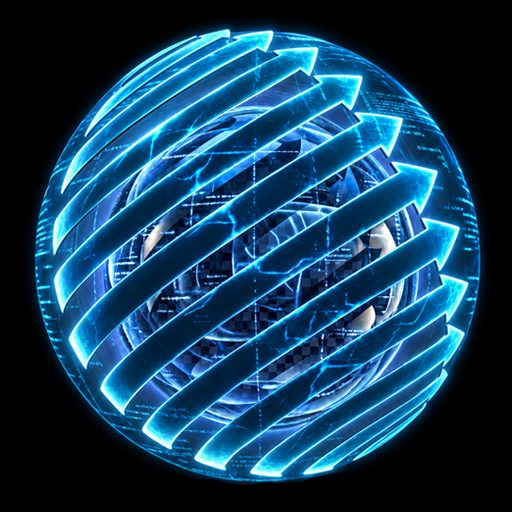
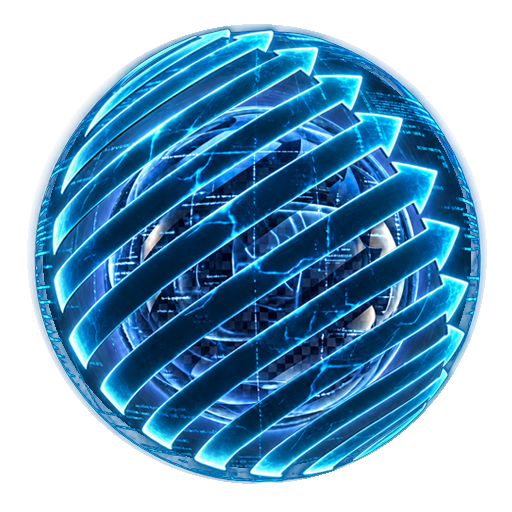
fix(ui): símbolo transparente, gráficos neutros e tour sem Assinatura
- Favicon e ícones do app (192/512) com fundo transparente: a esfera é
  recortada pelo contorno e o brilho da borda vira transparência. O ícone
  maskable do Android usa uma cópia com fundo (icon-maskable-512.png),
  porque o sistema recorta o ícone e precisa de fundo cheio
- Gestão de Demandas: barras neutras em "Distribuição por status" e "SPs
  por setor" (as cores dos dois quadros se confundiam)
- Tour não passa mais pela tela de Assinatura (botão de cancelamento)

diff --git a/components/vitrine/demandas/GestaoDemandasDemo.tsx b/components/vitrine/demandas/GestaoDemandasDemo.tsx
@@ -58,14 +58,6 @@ const TOM_STATUS: Record<SpStatus, TomSelo> = {
   cancelada: 'neutro',
 };
 
-const COR_STATUS: Record<SpStatus, string> = {
-  aberta: '#64748b',
-  em_andamento: '#0ea5e9',
-  aguardando_resposta: '#f59e0b',
-  aguardando_validacao: '#8b5cf6',
-  concluida: '#10b981',
-  cancelada: '#94a3b8',
-};
 
 const TOM_PRAZO: Record<PrazoTom, TomSelo> = {
   verde: 'verde',
@@ -135,18 +127,18 @@ function VisaoGeral({ sps, hojeIso, onAbrir }: VisaoProps) {
         />
       </div>
 
+      {/* Barras neutras nos dois quadros: com cores, os status e os setores
+          pareciam a mesma legenda (pedido do diretor 2026-10-04). */}
       <div className="grid gap-4 lg:grid-cols-2">
         <Secao titulo="Distribuição por status">
-          <ListaBarras
-            linhas={porStatus.map((p) => ({ label: STATUS_LABEL[p.status], valor: p.total, cor: COR_STATUS[p.status] }))}
-          />
+          <ListaBarras neutro linhas={porStatus.map((p) => ({ label: STATUS_LABEL[p.status], valor: p.total }))} />
         </Secao>
         <Secao titulo="SPs por setor">
           <ListaBarras
+            neutro
             linhas={porSetor.map((p) => ({
               label: p.setor.nome,
               valor: p.total,
-              cor: p.setor.cor,
               detalhe: p.atrasadas ? `· ${p.atrasadas} em atraso` : undefined,
             }))}
           />

diff --git a/lib/onboarding/tour-steps.ts b/lib/onboarding/tour-steps.ts
@@ -266,15 +266,9 @@ export const TOUR_STEPS: TourStep[] = [
     body: 'Basta o nome da empresa para começar; CNPJ, telefone e e-mail são opcionais. Em "Mais detalhes" ficam razão social, endereço e uma apresentação curta. No fim, clique em "Salvar dados".',
   },
 
-  // ── Conta ─────────────────────────────────────────────────────────────
-  {
-    id: 'conta-assinatura',
-    route: '/account/billing',
-    secao: 'Sua conta',
-    target: '[data-tour="conta-assinatura"]',
-    title: 'Sua assinatura',
-    body: 'Plano, situação, forma de pagamento e próxima cobrança. Se você contratou mais de um acesso, os convites da sua equipe também ficam nesta tela.',
-  },
+  // A tela de Assinatura ficou de fora do tour de propósito (pedido do
+  // diretor 2026-10-04): o tour não deve passar pelo botão de cancelamento.
+  // O passo "conta" abaixo já diz que a Assinatura fica no menu da conta.
 
   // ── De volta ao chat ──────────────────────────────────────────────────
   {

diff --git a/components/vitrine/ui.tsx b/components/vitrine/ui.tsx
@@ -181,9 +181,12 @@ export function BarraProgresso({ pct, className = '' }: { pct: number; className
 export function ListaBarras({
   linhas,
   formatar = (n) => String(n),
+  neutro = false,
 }: {
   linhas: { label: string; valor: number; cor?: string; detalhe?: string }[];
   formatar?: (n: number) => string;
+  /** Barras cinza, sem cor: para quadros lado a lado não "conversarem" por cor. */
+  neutro?: boolean;
 }) {
   const max = linhas.reduce((a, l) => Math.max(a, l.valor), 0) || 1;
   return (
@@ -199,8 +202,8 @@ export function ListaBarras({
           </div>
           <div className="mt-1 h-2 w-full overflow-hidden rounded bg-muted">
             <div
-              className={`h-full rounded ${l.cor ? '' : 'bg-brand/70'}`}
-              style={{ width: `${(l.valor / max) * 100}%`, backgroundColor: l.cor }}
+              className={`h-full rounded ${neutro ? 'bg-muted-foreground/45' : l.cor ? '' : 'bg-brand/70'}`}
+              style={{ width: `${(l.valor / max) * 100}%`, backgroundColor: neutro ? undefined : l.cor }}
             />
           </div>
         </div>

diff --git a/components/billing/SubscriptionPanel.tsx b/components/billing/SubscriptionPanel.tsx
@@ -58,7 +58,7 @@ export function SubscriptionPanel({ subscription }: Props) {
   // No subscription = free user
   if (!subscription) {
     return (
-      <div data-tour="conta-assinatura" className="space-y-6">
+      <div className="space-y-6">
         <div>
           <h1 className="text-2xl font-semibold tracking-tight">Assinatura</h1>
           <p className="text-sm text-muted-foreground mt-1">
@@ -93,7 +93,7 @@ export function SubscriptionPanel({ subscription }: Props) {
 
 
   return (
-    <div data-tour="conta-assinatura" className="space-y-6">
+    <div className="space-y-6">
       <div className="flex items-start justify-between gap-3 flex-wrap">
         <div>
           <h1 className="text-2xl font-semibold tracking-tight">Assinatura</h1>

diff --git a/app/manifest.ts b/app/manifest.ts
@@ -20,7 +20,9 @@ export default function manifest(): MetadataRoute.Manifest {
     icons: [
       { src: '/icon-192.png', sizes: '192x192', type: 'image/png', purpose: 'any' },
       { src: '/icon-512.png', sizes: '512x512', type: 'image/png', purpose: 'any' },
-      { src: '/icon-512.png', sizes: '512x512', type: 'image/png', purpose: 'maskable' },
+      // Maskable precisa de fundo cheio (o Android recorta em círculo/quadrado);
+      // os ícones 'any' têm fundo transparente desde 2026-10-04.
+      { src: '/icon-maskable-512.png', sizes: '512x512', type: 'image/png', purpose: 'maskable' },
     ],
   };
 }

diff --git a/CLAUDE.md b/CLAUDE.md
@@ -111,7 +111,7 @@ Audiência: gestores de compras brasileiros (PT-BR primário, EN secundário).
 | 67 | `tour-primeiro-acesso` | **Tour guiado de primeiro acesso** (pedido do diretor, 2026-10-01: "tour para primeiro acesso, tour completo"). 15 passos cobrindo o produto inteiro a partir do `/chat` — a barra lateral **é** o mapa do produto, então o tour inteiro roda numa tela só, sem navegar entre rotas (navegar quebraria o estado do tour a cada transição). `lib/onboarding/tour-steps.ts` guarda o roteiro **e** `placeCard` (aritmética pura de posicionamento: direita → abaixo → acima → esquerda → centro, sempre presa à janela). `components/onboarding/ProductTour.tsx` faz o recorte de foco **sem biblioteca** — um retângulo sobre o elemento real com `box-shadow: 0 0 0 9999px` escurecendo o resto. **Passo cujo alvo não existe cai no cartão centrado** em vez de travar: é o que faz o tour funcionar no celular (gaveta fechada) e com a sidebar recolhida (que, no desktop, o tour abre sozinho sem persistir a preferência). Âncoras via `data-tour` nos elementos reais (`Sidebar` — itens de nav montados do href —, `Composer` nas duas variantes hero/inline, `UserRow`) + o `aria-label` já existente do `AssistantLauncher`. Migration **0060**: `profiles.onboarding_tour_completed_at` — marcador no PERFIL, não em localStorage, porque "primeiro acesso" é da pessoa e não do navegador; `POST /api/account/onboarding-tour` marca ao **concluir E ao pular** (os dois são decisão do cliente). O estado vem do servidor em `app/chat/page.tsx` (virou async) para a tela não piscar o tour depois de já ter desenhado o chat. Replay em "Ver o tour da plataforma" no rodapé da sidebar (desktop e mobile). **Usuários existentes NÃO foram marcados como vistos** — os 17 perfis de produção veem o tour uma vez no próximo login, de propósito: boa parte das ferramentas é recente e ninguém foi apresentado a elas. +19 vitest (incluindo um que falha se um passo apontar para um seletor que não existe mais em nenhum componente — sem ele, um `data-tour` renomeado viraria cartão centrado silencioso). |
 | 68 | `vitrines-sob-demanda` | **Duas abas novas de produtos vendidos sob demanda**, a partir de dois sistemas de outra empresa que o diretor pediu para integrar ao PROGPT perdendo a marca original (2026-10-04): **Gestão de Obras** (`/gestao-obras`, origem: `centraldeobras-v2` — gestão de obras públicas) e **Gestão de Demandas** (`/gestao-demandas`, origem: `conectain` — Solicitações de Providência entre setores). Regra do produto: **as abas só carregam EXEMPLOS** — quem quiser o sistema de verdade pede ao comercial, que implanta sob demanda. **Decisão de abordagem (confirmada com o usuário): vitrine NATIVA, não embutir o app original.** Os dois sistemas de origem são React 19 + Tailwind v4 (um Vite SPA, outro TanStack Start), com Supabase próprio, login obrigatório e ~70 arquivos chamando `supabase.from()` inline — sem modo demo e, no caso do ConectaIN, sem nem dados de exemplo no banco. Embutir via iframe exigiria mockar o Supabase inteiro de cada um, mais dois builds no deploy, e o visual só se adaptaria pela metade. Em vez disso, as telas que vendem o produto foram **reconstruídas com os componentes e tokens do PROGPT**, portando as **regras de negócio** de verdade: semáforo de prazo (`calcularPrazo`, janela de atenção de 5 dias), ciclo de vida e colunas do quadro de fluxo derivadas de status+recebimento (`colunaDoFluxo`), código `SP-SETOR-NN/ANO`, os 8 setores reais; e na obra, preço unitário com BDI e desconto da licitação, boletim de medição com anterior/desta medição/acumulado por grupo da planilha, rascunho não entra no medido, Kanban por quinzena. `lib/vitrine/{demandas,obras,datas,contato}.ts` são **puros** (dados + regras); `components/vitrine/{ui.tsx,demandas/GestaoDemandasDemo.tsx,obras/GestaoObrasDemo.tsx}` são as telas. Datas dos exemplos são **deslocamentos relativos a hoje**, e o "hoje" vem do servidor **no fuso de Brasília** (`hojeEmBrasilia`, Railway roda em UTC) como string — assim "3 dias em atraso" segue verdadeiro em qualquer dia e não há divergência de hidratação. **Nada grava**: toda ação que gravaria algo (Nova SP, nova medição, exportar Excel/PDF, importar planilha, baixar anexo) chama `avisarSobDemanda` → toast com botão para o WhatsApp comercial (`solicitarProdutoHref`, deriva de `LEGAL_CONTACT_PHONE_TEL`, mensagem já diz qual produto). Cabeçalho com selo "Demonstração" + CTA "Quero na minha empresa" e faixa de aviso "dados fictícios". Escopo do ConectaIN deliberadamente só nas SPs (Visão Geral, Setores, Quadro de fluxo, Relatórios + detalhe da SP) — veículos/patrimônio/contratos/diretoria ficaram de fora. Registrado na Sidebar do chat (`NAV_ITEMS`, ícones HardHat/ClipboardList) e no matcher do `middleware.ts` (mesmo gate de assinatura das outras telas). **Não** entram no hub de assistentes nem no CTA/`SYSTEM_PROMPT` do chat (não são assistentes) nem no menu curto do `Header`. Sem migration, sem rota de API. +36 vitest. |
 | 69 | `entrar-como-cliente` | **"Ver como o cliente" passa a mostrar EXATAMENTE o que o cliente vê** (pedido do diretor 2026-10-04, com print da visão antiga: uma lista própria de conversas que não se parecia com a tela do cliente). A tela do cliente lê tudo com a sessão de quem está logado (`supabaseBrowser` + RLS owner-only), então nenhum espelho dentro da sessão do super admin mostra a mesma coisa — e um espelho fiel exigiria reimplementar cada tela. **Decisão do usuário (pergunta explícita, contra a opção de espelho só leitura): impersonação real**, revertendo a regra "suporte só olha" do sub-projeto 59. `POST /api/plataforma/users/[id]/impersonate` (requireSuperAdmin→404) gera um **magic link de uso único via Admin API** (`auth.admin.generateLink({type:'magiclink'})` — NÃO envia e-mail) e devolve uma URL do **nosso domínio** passando pela rota já existente `/auth/confirm?token_hash=…&type=magiclink&next=/chat` (verifyOtp grava a sessão em cookie). **Travas**: não entra na própria conta (400 `cannot_impersonate_self`), nem na de outro super admin (403 — seria escalada lateral entre staff), nem em conta com login desativado (409 `user_inactive`; `banned_until` no futuro). Toda geração grava `audit_log` `user.impersonate` (metadata `targetEmail`), rotulada no Console e no Monitoramento; falha ao gerar não audita. Resposta com `Cache-Control: no-store` — o link é credencial. UI: `components/plataforma/ImpersonateDialog.tsx` no painel do usuário — confirmação explicando que o super admin **pode agir como o cliente**, que fica auditado e que o "último acesso" do cliente muda; o link é entregue para **copiar e abrir em janela anônima** (abrir na mesma janela trocaria a sessão do próprio super admin; o navegador não deixa um site abrir janela anônima); fechar a janela descarta o link. Botão desabilitado com motivo para super admin / login desativado. A visão antiga (`SupportViewer`, só leitura) continua como ação secundária "Ver conversas (só leitura)". Sem migration. +8 vitest. |
-| 70 | `tour-pagina-por-pagina` | **Tour de primeiro acesso passa a visitar cada tela** (pedido do diretor 2026-10-04: "mais detalhista, entrando em página por página para explicar tudo", incluir os módulos novos e botão do tour acima de Assistentes). Revoga a decisão do sub-projeto 67 de rodar tudo no `/chat`. **29 passos** em blocos por tela: Chat (composer, atalhos, voz, Modo Livre, conversas, menu) → `/assistants` (grade + histórico) → `/fluxo` (trilha das 8 etapas + ações) → `/painel` (cabeçalho + KPIs) → `/dashboard` (upload + exemplos) → `/fornecedores` (abas, ações, busca) → `/prompts` (categorias, busca, lista) → `/gestao-obras` e `/gestao-demandas` (vitrines do sub-projeto 68: abas + contato sob demanda) → `/account/billing` (assinatura) → de volta ao `/chat` (conta, suporte, fim). **Arquitetura**: o tour não pode mais viver dentro de uma tela (cada troca de rota desmontaria o componente). `TourStep` ganha `route` + `secao`; o passo atual vive em `sessionStorage` (`lib/onboarding/tour-state.ts` — `progpt_tour_v2`, evento `progpt:tour-change`, cópia em memória se o storage estiver bloqueado; some ao fechar a aba de propósito); `components/onboarding/TourHost.tsx` é montado no **layout raiz**, navega até a rota do passo (`router.push` uma vez por passo) e abandona o tour se não chegar em 10s (sessão expirada → login, assinatura vencida → `/planos`), em vez de ficar empurrando. `ProductTour` virou **controlado** (index/onNext/onBack vêm do host) e ganhou estado "Abrindo a tela…" + **espera de até 3s pelo alvo** (telas como Painel desenham depois de buscar dados) antes de cair no cartão centrado. Concluir/pular continua marcando `profiles.onboarding_tour_completed_at` (agora pelo host). `ChatRoot` só dispara o primeiro acesso, guardado por `tourJaIniciado()` (marca de aba) — sem ela, o `/chat` voltando do cache do roteador com `showTour=true` logo depois de o cliente pular o tour noutra tela recomeçaria o tour. Âncoras `data-tour` novas: `navegacao` (menu do chat), `assistentes-grade`/`assistentes-historico`, `fluxo-trilha`/`fluxo-acoes`, `painel-cabecalho`/`painel-kpis`, `dashboard-upload`/`dashboard-exemplos`, `fornecedores-abas`/`fornecedores-acoes`/`fornecedores-busca`, `prompts-categorias`/`prompts-busca`/`prompts-lista`, `conta-assinatura` (nos DOIS ramos do `SubscriptionPanel`, free e assinante), `vitrine-abas`/`vitrine-contato` (kit das vitrines, compartilhados entre as duas telas). Ancorado só em elementos que renderizam também para conta nova (o botão "Nova compra" do Fluxo e o "Usar no chat" do modal de prompts, por exemplo, não aparecem para quem nunca usou). **Botão "Ver o tour da plataforma" saiu do rodapé** e foi para o topo do menu, acima de Assistentes (barra aberta e recolhida). Testes: o de seletores agora varre `app/` + `components/` inteiros; novos travam que toda rota do tour tem `page.tsx`, que passos da mesma tela ficam juntos (só o `/chat` repete, abrindo e fechando) e que as vitrines estão no roteiro. +17 vitest (tour-state, TourHost, regras do roteiro). |
+| 70 | `tour-pagina-por-pagina` | **Tour de primeiro acesso passa a visitar cada tela** (pedido do diretor 2026-10-04: "mais detalhista, entrando em página por página para explicar tudo", incluir os módulos novos e botão do tour acima de Assistentes). Revoga a decisão do sub-projeto 67 de rodar tudo no `/chat`. **29 passos** em blocos por tela: Chat (composer, atalhos, voz, Modo Livre, conversas, menu) → `/assistants` (grade + histórico) → `/fluxo` (trilha das 8 etapas + ações) → `/painel` (cabeçalho + KPIs) → `/dashboard` (upload + exemplos) → `/fornecedores` (abas, ações, busca) → `/prompts` (categorias, busca, lista) → `/gestao-obras` e `/gestao-demandas` (vitrines do sub-projeto 68: abas + contato sob demanda) → ~~`/account/billing` (assinatura)~~ → de volta ao `/chat` (conta, suporte, fim). **Atualização 2026-10-04 (pedido do diretor): o passo da Assinatura saiu do tour** — a tela tem o botão de cancelamento e o tour não deve passar por ele; o passo `conta` já indica onde fica a Assinatura. As âncoras `conta-assinatura` foram removidas do `SubscriptionPanel`. **Arquitetura**: o tour não pode mais viver dentro de uma tela (cada troca de rota desmontaria o componente). `TourStep` ganha `route` + `secao`; o passo atual vive em `sessionStorage` (`lib/onboarding/tour-state.ts` — `progpt_tour_v2`, evento `progpt:tour-change`, cópia em memória se o storage estiver bloqueado; some ao fechar a aba de propósito); `components/onboarding/TourHost.tsx` é montado no **layout raiz**, navega até a rota do passo (`router.push` uma vez por passo) e abandona o tour se não chegar em 10s (sessão expirada → login, assinatura vencida → `/planos`), em vez de ficar empurrando. `ProductTour` virou **controlado** (index/onNext/onBack vêm do host) e ganhou estado "Abrindo a tela…" + **espera de até 3s pelo alvo** (telas como Painel desenham depois de buscar dados) antes de cair no cartão centrado. Concluir/pular continua marcando `profiles.onboarding_tour_completed_at` (agora pelo host). `ChatRoot` só dispara o primeiro acesso, guardado por `tourJaIniciado()` (marca de aba) — sem ela, o `/chat` voltando do cache do roteador com `showTour=true` logo depois de o cliente pular o tour noutra tela recomeçaria o tour. Âncoras `data-tour` novas: `navegacao` (menu do chat), `assistentes-grade`/`assistentes-historico`, `fluxo-trilha`/`fluxo-acoes`, `painel-cabecalho`/`painel-kpis`, `dashboard-upload`/`dashboard-exemplos`, `fornecedores-abas`/`fornecedores-acoes`/`fornecedores-busca`, `prompts-categorias`/`prompts-busca`/`prompts-lista`, `conta-assinatura` (nos DOIS ramos do `SubscriptionPanel`, free e assinante), `vitrine-abas`/`vitrine-contato` (kit das vitrines, compartilhados entre as duas telas). Ancorado só em elementos que renderizam também para conta nova (o botão "Nova compra" do Fluxo e o "Usar no chat" do modal de prompts, por exemplo, não aparecem para quem nunca usou). **Botão "Ver o tour da plataforma" saiu do rodapé** e foi para o topo do menu, acima de Assistentes (barra aberta e recolhida). Testes: o de seletores agora varre `app/` + `components/` inteiros; novos travam que toda rota do tour tem `page.tsx`, que passos da mesma tela ficam juntos (só o `/chat` repete, abrindo e fechando) e que as vitrines estão no roteiro. +17 vitest (tour-state, TourHost, regras do roteiro). |
 | 71 | `suporte-flutuante-faq` | **Suporte vira botão flutuante com FAQ** (pedido do diretor 2026-10-04: o bloco de suporte no rodapé da barra lateral do chat ficava em cima do histórico de conversas). Os dois atalhos antigos saíram da `Sidebar` (bloco "Suporte" + telefone da barra aberta e o ícone de telefone da recolhida). `components/support/SupportWidget.tsx`: botão redondo discreto (ícone de ajuda) **fixo no canto inferior direito de toda tela logada** — montado no `AppShell` e no `ChatRoot` (no chat com `elevado`, acima da caixa de mensagem para não cobrir o enviar). Abre um painel com **FAQ de uso com busca** (sem acento, todas as palavras, por pergunta/resposta/termos extras) e, fixos no rodapé do painel, **"Falar no WhatsApp"** (wa.me com mensagem pronta, número de `LEGAL_CONTACT_PHONE_TEL`) e o e-mail comercial; fecha com Esc ou clique fora. `lib/support/faq.ts` (`FAQ_SUPORTE` + `buscarFaq`, puros): ~35 perguntas em 6 seções (primeiros passos, chat, assistentes, Fluxo/Painel/bases, conta e assinatura, privacidade). É **diferente do `/faq` público** (marketing): este responde dúvidas de USO, com os rótulos reais das telas (conferidos no código — "Excluir minha conta" fica em "Meu perfil", não no menu do rodapé). Respostas **não citam preço** (muda pelo `/admin/billing`; teste trava `R$ <número>`) e a de privacidade diz que a equipe pode acessar a conta em atendimento, com registro (coerente com o sub-projeto 69). O passo `suporte` do tour aponta para o botão novo (`data-tour="suporte"`). +13 vitest. |
 | 72 | `conta-no-topo-perfil-simples` | **Conta no canto superior direito + perfil simplificado** (pedido do diretor 2026-10-04, com print da linha do e-mail no rodapé da barra lateral). **`UserRow` foi substituído por `components/auth/UserMenu.tsx`**: só o ícone com a inicial (`aria-label="Minha conta"`, `data-tour="conta"`), ao lado do botão de tema — no chat (`ChatRoot`, grupo absoluto no topo direito) e nas demais telas (`app/login/header.tsx`, só quando logado). O **e-mail não aparece mais na tela**, só dentro do menu ("Conectado como"); o menu tem Meu perfil, Assinatura, Admin (staff) e Sair — o item de tema saiu porque o botão de tema fica ao lado. Saíram da `Sidebar`: a linha do usuário (aberta e recolhida) e o título redundante "Histórico de conversas". **`/profile` simplificado para leigos**: frase explicando para que serve, passos numerados (1. Logo, 2. Dados da empresa) + "Minhas categorias", e atalhos discretos no rodapé para "Plano e pagamento" e "Excluir minha conta" (sem a zona vermelha). A seção **"Seu plano" saiu do perfil** (repetia a Assinatura) — **cuidado que motivou mexer em billing**: o cancelamento do PERÍODO DE TESTE só existia no perfil (`CancelSubscription`); o `SubscriptionPanel` só cancelava `active`/`past_due` e usava `confirm()` do navegador. Agora o `SubscriptionPanel` usa o próprio `CancelSubscription` (trial + ativa + atraso, confirmação na tela). **`ProfileCompanyForm` reescrito**: saiu a chave Pessoa Física/Jurídica (o CPF digitado ali **nunca era salvo** — só estado local), saiu um bloco "Plano Pro R$ 127,99/mês" fixo e desatualizado e ~200 linhas de código comentado; essencial à mostra (nome, CNPJ, telefone, e-mail, com rótulos e ajuda em português simples) e o resto em "Mais detalhes (opcional)". Mesma API (`PUT /api/profile/company`) e mesmos campos. Tour ganhou 3 passos em `/profile` (`perfil-topo`/`perfil-logo`/`perfil-dados`, antes da Assinatura) e o passo `conta` aponta o ícone novo; FAQ do suporte atualizado (respostas que mandavam clicar "no seu nome, no rodapé"). +5 vitest (`UserMenu`). |
 
